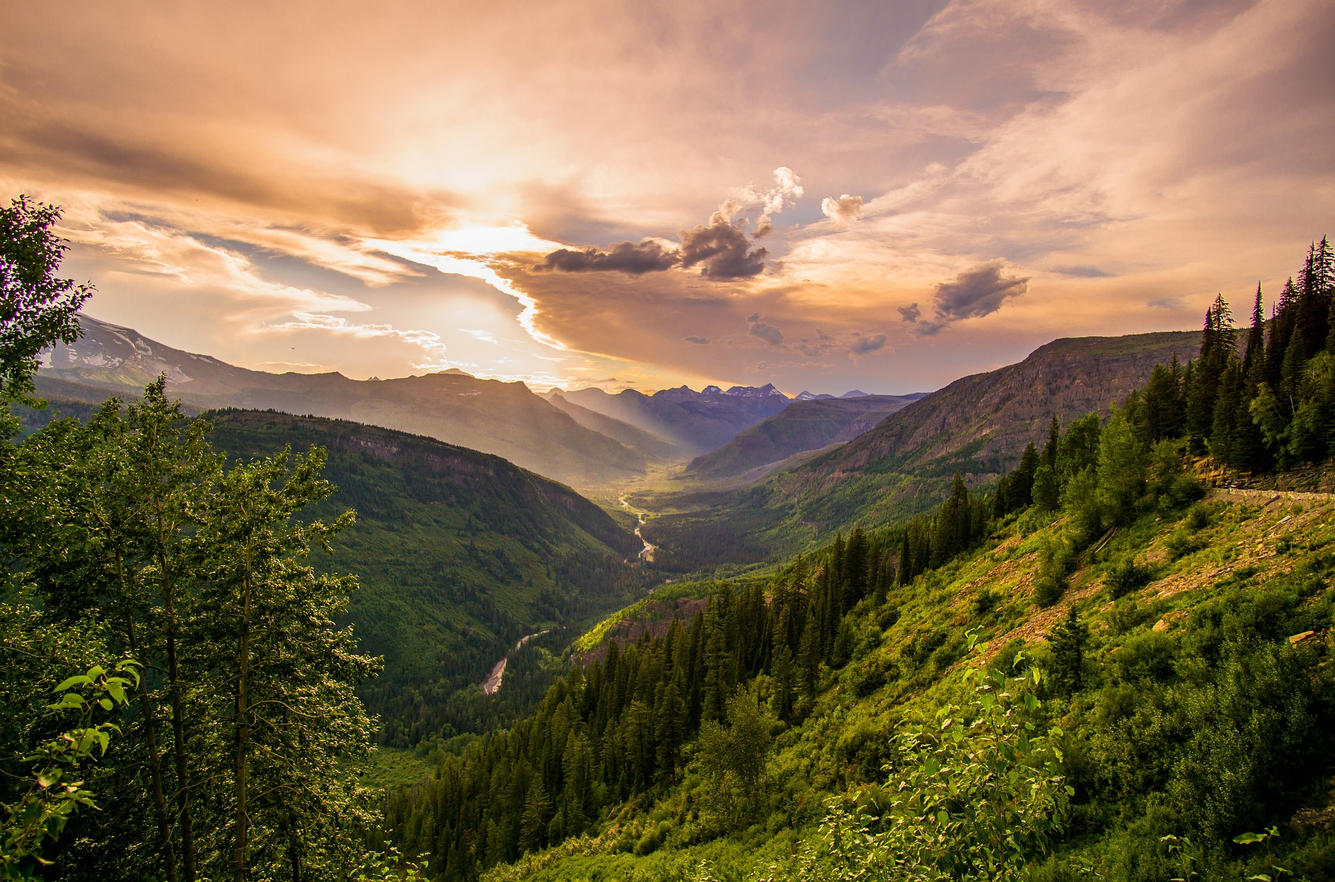
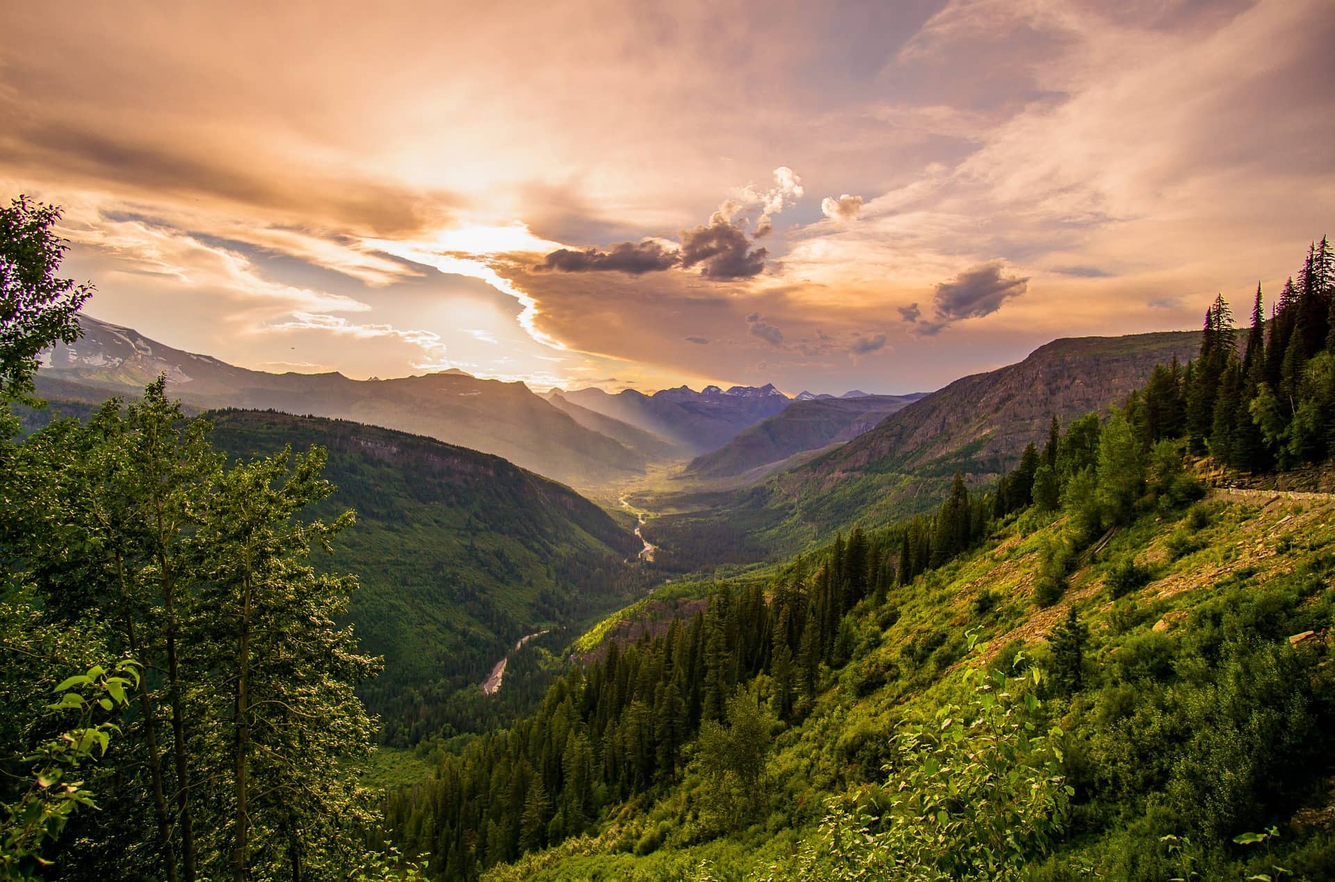
Correction des espaces & Compression des images

diff --git a/css/main.min.css b/css/main.min.css
@@ -1,1 +1,1 @@
-html,body,div,span,applet,object,iframe,h1,h2,h3,h4,h5,h6,p,blockquote,pre,a,abbr,acronym,address,big,cite,code,del,dfn,em,img,ins,kbd,q,s,samp,small,strike,strong,sub,sup,tt,var,b,u,i,center,dl,dt,dd,ol,ul,li,fieldset,form,label,legend,table,caption,tbody,tfoot,thead,tr,th,td,article,aside,canvas,details,embed,figure,figcaption,footer,header,hgroup,menu,nav,output,ruby,section,summary,time,mark,audio,video{margin:0;padding:0;border:0;font-size:100%;font:inherit;vertical-align:baseline}article,aside,details,figcaption,figure,footer,header,hgroup,menu,nav,section{display:block}body{line-height:1}ol,ul{list-style:none}blockquote,q{quotes:none}blockquote:before,blockquote:after,q:before,q:after{content:"";content:none}table{border-collapse:collapse;border-spacing:0}h1{font-size:3rem}h2{font-size:2rem;margin-bottom:1rem}h3{font-size:1.5rem;font-weight:bold;margin-bottom:1rem}h1,h2{text-align:center;font-weight:bold;color:#f46d1d}p{font-size:1.1rem}.text-highlight{color:#f46d1d}.text-bold{font-weight:bold}.text-medium{font-weight:500}.container{width:60%;margin:0 auto}header{background:url("../images/header.jpg") center/cover no-repeat;height:138vh;margin-bottom:2rem}header p{font-family:"Poppins";font-weight:600;color:#fff;font-size:.875rem;line-height:1.5}header h1{text-align:left}header::before{content:"";position:absolute;top:125%;left:0;width:100%;height:15%;background:linear-gradient(to bottom, rgba(255, 255, 255, 0), #ffffff)}.navbar{height:6.75rem;background-color:rgba(84,84,84,.5);color:#fff;display:flex;align-items:center;justify-content:flex-start;padding:0 1.25rem;box-shadow:0px 5px 10px rgba(0,0,0,.5)}.navbar img{height:4.6875rem;width:auto;margin-left:1.875rem}.nav-list{list-style:none;display:flex;margin:0;padding:0;justify-content:center;flex-grow:1;margin-left:4.375rem}.nav-list li{margin-right:3.4375rem}.nav-list a{text-decoration:none;color:#fff;font-weight:bold;font-size:1.125rem;text-shadow:.125rem .125rem .25rem rgba(0,0,0,.3)}.nav-list a::after{content:"";display:block;height:.125rem;width:0;background-color:#f46d1d;transition:width .3s ease}.nav-list a:hover::after{width:3.75rem}.auth-buttons{display:flex;align-items:center}.auth-buttons button{font-family:"Montserrat",sans-serif;font-weight:bold;margin-left:.625rem;padding:1rem 1.875rem;border:.125rem solid #f46d1d;background-color:rgba(0,0,0,0);color:#f46d1d;font-size:.9375rem;cursor:pointer;border-radius:2.5rem}.auth-buttons #inscription-btn{background-color:#f46d1d;color:#fff;border-radius:2.5rem}.auth-buttons #connexion-btn{margin-right:1.25rem}.middle-div{position:absolute;top:50%;left:50%;transform:translate(-50%, 15%);width:50rem;height:18.75rem}.searchBar-div{position:absolute;top:112%;left:50%;transform:translate(-50%, 15%);width:37.5rem;height:3.9375rem;background-color:#fff}.textBar-div{position:absolute;top:105%;left:50%;transform:translate(-50%, 15%);width:25rem;height:2.375rem}.textBar-div h2{font-style:italic;font-weight:700}.buttonSearch-div{position:absolute;height:3.9375rem;width:3.75rem;background-color:#f46d1d;right:0;display:flex;align-items:center;justify-content:center}.selectItems1-div,.selectItems2-div,.selectItems3-div,.selectItems4-div{height:3.9375rem;width:8.5rem;float:left;border-right:.0625rem solid #ddd}.selectItems1-div p,.selectItems2-div p,.selectItems3-div p,.selectItems4-div p{color:#818181;margin:0;font-size:.6875rem;text-transform:uppercase;text-align:center;margin-top:.5rem;font-family:"Poppins"}.searchBar-div select{width:100%;padding:.5rem;border:none;border-radius:.25rem;box-sizing:border-box;background-color:#fff;-webkit-appearance:none;-moz-appearance:none;appearance:none;font-family:"Poppins";text-align:center;font-weight:500}.booking-buttons{position:relative;display:flex;align-items:center}.booking-buttons button{font-family:"Montserrat",sans-serif;font-weight:bold;padding:.625rem 1.875rem;background-color:#f46d1d;border:.125rem solid #f46d1d;font-size:.9375rem;cursor:pointer;border-radius:2.5rem;color:#fff;margin-top:1.5rem;position:relative}*{box-sizing:border-box}.introduction-article{display:flex;line-height:1.2}.introduction-article div{max-width:50%;padding:.8rem}.introduction-article img{width:100%}#travels{background-image:linear-gradient(white 35%, rgba(255, 122, 0, 0.28) 35%)}.travels-container{display:flex;justify-content:space-around;width:75%;margin:auto}.travels-container .travels-cards{width:20%;background-color:#fff;box-shadow:0 0 .5rem rgba(0,0,0,.6)}.travels-container .travels-cards img{width:100%}.travels-container .travels-cards .travels-infos{padding:.5rem}.travels-container .travels-cards .travels-infos-plus{display:flex;justify-content:space-between;margin-top:3rem}.travels-container .travels-cards .price{font-size:1.3rem}.travels-container .travels-cards .note{border:2px solid #f46d1d}/*# sourceMappingURL=main.min.css.map */
+html,body,div,span,applet,object,iframe,h1,h2,h3,h4,h5,h6,p,blockquote,pre,a,abbr,acronym,address,big,cite,code,del,dfn,em,img,ins,kbd,q,s,samp,small,strike,strong,sub,sup,tt,var,b,u,i,center,dl,dt,dd,ol,ul,li,fieldset,form,label,legend,table,caption,tbody,tfoot,thead,tr,th,td,article,aside,canvas,details,embed,figure,figcaption,footer,header,hgroup,menu,nav,output,ruby,section,summary,time,mark,audio,video{margin:0;padding:0;border:0;font-size:100%;font:inherit;vertical-align:baseline}article,aside,details,figcaption,figure,footer,header,hgroup,menu,nav,section{display:block}body{line-height:1}ol,ul{list-style:none}blockquote,q{quotes:none}blockquote:before,blockquote:after,q:before,q:after{content:"";content:none}table{border-collapse:collapse;border-spacing:0}h1{font-size:3rem}h2{font-size:2rem;margin-bottom:1rem}h3{font-size:1.5rem;font-weight:bold;margin-bottom:1rem}h1,h2{text-align:center;font-weight:bold;color:#f46d1d}p{font-size:1.1rem}.text-highlight{color:#f46d1d}.text-bold{font-weight:bold}.text-medium{font-weight:500}.container{width:60%;margin:0 auto}*{box-sizing:border-box}header{background:url("../images/header.jpg") center/cover no-repeat;height:138vh;margin-bottom:2rem}header p{font-family:"Poppins";font-weight:600;color:#fff;font-size:.875rem;line-height:1.5}header h1{text-align:left}header::before{content:"";position:absolute;top:125%;left:0;width:100%;height:15%;background:linear-gradient(to bottom, rgba(255, 255, 255, 0), #ffffff)}.navbar{height:6.75rem;background-color:rgba(84,84,84,.5);color:#fff;display:flex;align-items:center;justify-content:flex-start;padding:0 1.25rem;box-shadow:0px 5px 10px rgba(0,0,0,.5)}.navbar img{height:4.6875rem;width:auto;margin-left:1.875rem}.nav-list{list-style:none;display:flex;margin:0;padding:0;justify-content:center;flex-grow:1;margin-left:4.375rem}.nav-list li{margin-right:3.4375rem}.nav-list a{text-decoration:none;color:#fff;font-weight:bold;font-size:1.125rem;text-shadow:.125rem .125rem .25rem rgba(0,0,0,.3)}.nav-list a::after{content:"";display:block;height:.125rem;width:0;background-color:#f46d1d;transition:width .3s ease}.nav-list a:hover::after{width:3.75rem}.auth-buttons{display:flex;align-items:center}.auth-buttons button{font-family:"Montserrat",sans-serif;font-weight:bold;margin-left:.625rem;padding:1rem 1.875rem;border:.125rem solid #f46d1d;background-color:rgba(0,0,0,0);color:#f46d1d;font-size:.9375rem;cursor:pointer;border-radius:2.5rem}.auth-buttons #inscription-btn{background-color:#f46d1d;color:#fff;border-radius:2.5rem}.auth-buttons #connexion-btn{margin-right:1.25rem}.middle-div{position:absolute;top:50%;left:50%;transform:translate(-50%, 15%);width:50rem;height:18.75rem}.searchBar-div{position:absolute;top:112%;left:50%;transform:translate(-50%, 15%);width:37.5rem;height:3.9375rem;background-color:#fff}.textBar-div{position:absolute;top:105%;left:50%;transform:translate(-50%, 15%);width:25rem;height:2.375rem}.textBar-div h2{font-style:italic;font-weight:700}.buttonSearch-div{position:absolute;height:3.9375rem;width:3.75rem;background-color:#f46d1d;right:0;display:flex;align-items:center;justify-content:center}.selectItems1-div,.selectItems2-div,.selectItems3-div,.selectItems4-div{height:3.9375rem;width:8.5rem;float:left;border-right:.0625rem solid #ddd}.selectItems1-div p,.selectItems2-div p,.selectItems3-div p,.selectItems4-div p{color:#818181;margin:0;font-size:.6875rem;text-transform:uppercase;text-align:center;margin-top:.5rem;font-family:"Poppins"}.searchBar-div select{width:100%;padding:.5rem;border:none;border-radius:.25rem;box-sizing:border-box;background-color:#fff;-webkit-appearance:none;-moz-appearance:none;appearance:none;font-family:"Poppins";text-align:center;font-weight:500}.booking-buttons{position:relative;display:flex;align-items:center}.booking-buttons button{font-family:"Montserrat",sans-serif;font-weight:bold;padding:.625rem 1.875rem;background-color:#f46d1d;border:.125rem solid #f46d1d;font-size:.9375rem;cursor:pointer;border-radius:2.5rem;color:#fff;margin-top:1.5rem;position:relative}.introduction-article{display:flex;line-height:1.2}.introduction-article div{max-width:50%;padding:.8rem}.introduction-article img{width:100%}#travels{background-image:linear-gradient(white 35%, rgba(255, 122, 0, 0.28) 35%)}.travels-container{display:flex;justify-content:space-around;width:75%;margin:auto}.travels-container .travels-cards{width:20%;background-color:#fff;box-shadow:0 0 .5rem rgba(0,0,0,.6)}.travels-container .travels-cards img{width:100%}.travels-container .travels-cards .travels-infos{padding:.5rem}.travels-container .travels-cards .travels-infos-plus{display:flex;justify-content:space-between;margin-top:3rem}.travels-container .travels-cards .price{font-size:1.3rem}.travels-container .travels-cards .note{border:2px solid #f46d1d}/*# sourceMappingURL=main.min.css.map */

diff --git a/index.html b/index.html
@@ -13,61 +13,61 @@
 	<body>
 		<header>
 			<nav class="navbar">
-			   <img src="images/logo.svg" alt="Logo">
-			   <ul class="nav-list">
-				  <li><a href="#">Accueil</a></li>
-				  <li><a href="#">Nos Voyages</a></li>
-				  <li><a href="#">Qui sommes nous ?</a></li>
-			   </ul>
-			   <div class="auth-buttons">
-				  <button id="inscription-btn">Inscription</button>
-				  <button id="connexion-btn">Connexion</button>
-			   </div>
+			    <img src="images/logo.svg" alt="Logo">
+			    <ul class="nav-list">
+				    <li><a href="#">Accueil</a></li>
+				    <li><a href="#">Nos Voyages</a></li>
+				    <li><a href="#">Qui sommes nous ?</a></li>
+			    </ul>
+			    <div class="auth-buttons">
+				    <button id="inscription-btn">Inscription</button>
+				    <button id="connexion-btn">Connexion</button>
+			    </div>
 			</nav>
 			<div class="middle-div">
-			   <h1>VOTRE AVENTURE DÉBUTE ICI !</h1>
-			   <br>
-			   <p>Bienvenue chez l’agence <span class="text-highlight">Booktrip</span>, votre expert en<span class="text-highlight"> voyages d'aventure</span> dans la nature. Plongez au cœur de destinations époustouflantes avec l’aide de notre équipe passionnée.<br><br> Laissez-nous être votre guide vers des horizons inexplorés, où chaque voyage devient une<br><span class="text-highlight"> aventure captivante</span>. Préparez-vous à créer des souvenirs inoubliables et à embrasser la <br><span class="text-highlight">beauté sauvage du monde</span>.</p>
-			   <div class="booking-buttons">
-				  <button>Réservez votre aventure ! </button>                
-			   </div>
+			    <h1>VOTRE AVENTURE DÉBUTE ICI !</h1>
+			    <br>
+			    <p>Bienvenue chez l’agence <span class="text-highlight">Booktrip</span>, votre expert en<span class="text-highlight"> voyages d'aventure</span> dans la nature. Plongez au cœur de destinations époustouflantes avec l’aide de notre équipe passionnée.<br><br> Laissez-nous être votre guide vers des horizons inexplorés, où chaque voyage devient une<br><span class="text-highlight"> aventure captivante</span>. Préparez-vous à créer des souvenirs inoubliables et à embrasser la <br><span class="text-highlight">beauté sauvage du monde</span>.</p>
+			    <div class="booking-buttons">
+				    <button>Réservez votre aventure ! </button>                
+			    </div>
 			</div>
 			<div class="textBar-div">
-			   <h2>Explorez, découvrez, vivez.</h2>
+			    <h2>Explorez, découvrez, vivez.</h2>
 			</div>
 			<div class="searchBar-div">
-			   <div class="selectItems1-div">
-				  <p>Destination</p>
-				  <select>
-					 <option value="" disabled selected>Islande</option>
-					 <option value="destination">Destination à choisir</option>
-				  </select>
-			   </div>
-			   <div class="selectItems2-div">
-				  <p>Depart</p>
-				  <select>
-					 <option value="" disabled selected>01/01/2024</option>
-					 <option value="dateDepart">Date à choisir</option>
-				  </select>
-			   </div>
-			   <div class="selectItems3-div">
-				  <p>Retour</p>
-				  <select>
-					 <option value="" disabled selected>08/01/2024</option>
-					 <option value="dateRetour">Date à choisir</option>
-				  </select>
-			   </div>
-			   <div class="selectItems4-div">
-				  <p>Personnes</p>
-				  <select>
-					 <option value="" disabled selected>2 Adultes</option>
-					 <option value="personnes">Personnes à choisir</option>
-				  </select>
-			   </div>
-			   <div class="buttonSearch-div"><img src="images/icons/chevron-right-solid-white.svg" alt="Logo">
-			   </div>
+			    <div class="selectItems1-div">
+				    <p>Destination</p>
+				    <select>
+					    <option value="" disabled selected>Islande</option>
+					    <option value="destination">Destination à choisir</option>
+				    </select>
+			    </div>
+			    <div class="selectItems2-div">
+				    <p>Depart</p>
+				    <select>
+					    <option value="" disabled selected>01/01/2024</option>
+					    <option value="dateDepart">Date à choisir</option>
+				    </select>
+			    </div>
+			    <div class="selectItems3-div">
+				    <p>Retour</p>
+				    <select>
+					    <option value="" disabled selected>08/01/2024</option>
+					    <option value="dateRetour">Date à choisir</option>
+				    </select>
+			    </div>
+			    <div class="selectItems4-div">
+				    <p>Personnes</p>
+				    <select>
+					    <option value="" disabled selected>2 Adultes</option>
+					    <option value="personnes">Personnes à choisir</option>
+				    </select>
+			    </div>
+			    <div class="buttonSearch-div"><img src="images/icons/chevron-right-solid-white.svg" alt="Logo">
+			    </div>
 			</div>
-		 </header>
+		</header>
 		<main>
 			<!-- Section | Introduction -->
 			<section class="container" id="introduction">

diff --git a/sass/main.scss b/sass/main.scss
@@ -10,6 +10,12 @@
 @import
     "./utils/extends";
 
+// Global
+
+* {
+    box-sizing: border-box;
+}
+
 // SCSS Header
 
 header {
@@ -207,7 +213,7 @@ header::before {
     display: flex;
     align-items: center;
     }
-      
+
 .booking-buttons button {
     font-family: 'Montserrat', sans-serif;
     font-weight: bold;
@@ -221,11 +227,8 @@ header::before {
     margin-top: 1.5rem;
     position: relative;
 }
-    
 
-* {
-    box-sizing: border-box;
-}
+// Section 1 | Introduction
 
 .introduction-article {
     display: flex;
@@ -239,6 +242,8 @@ header::before {
         width: 100%;
     }
 }
+
+// Section 2 | Travels
 
 #travels {
     background-image: linear-gradient(white 35%, rgba(255,122,0,0.28) 35%);
